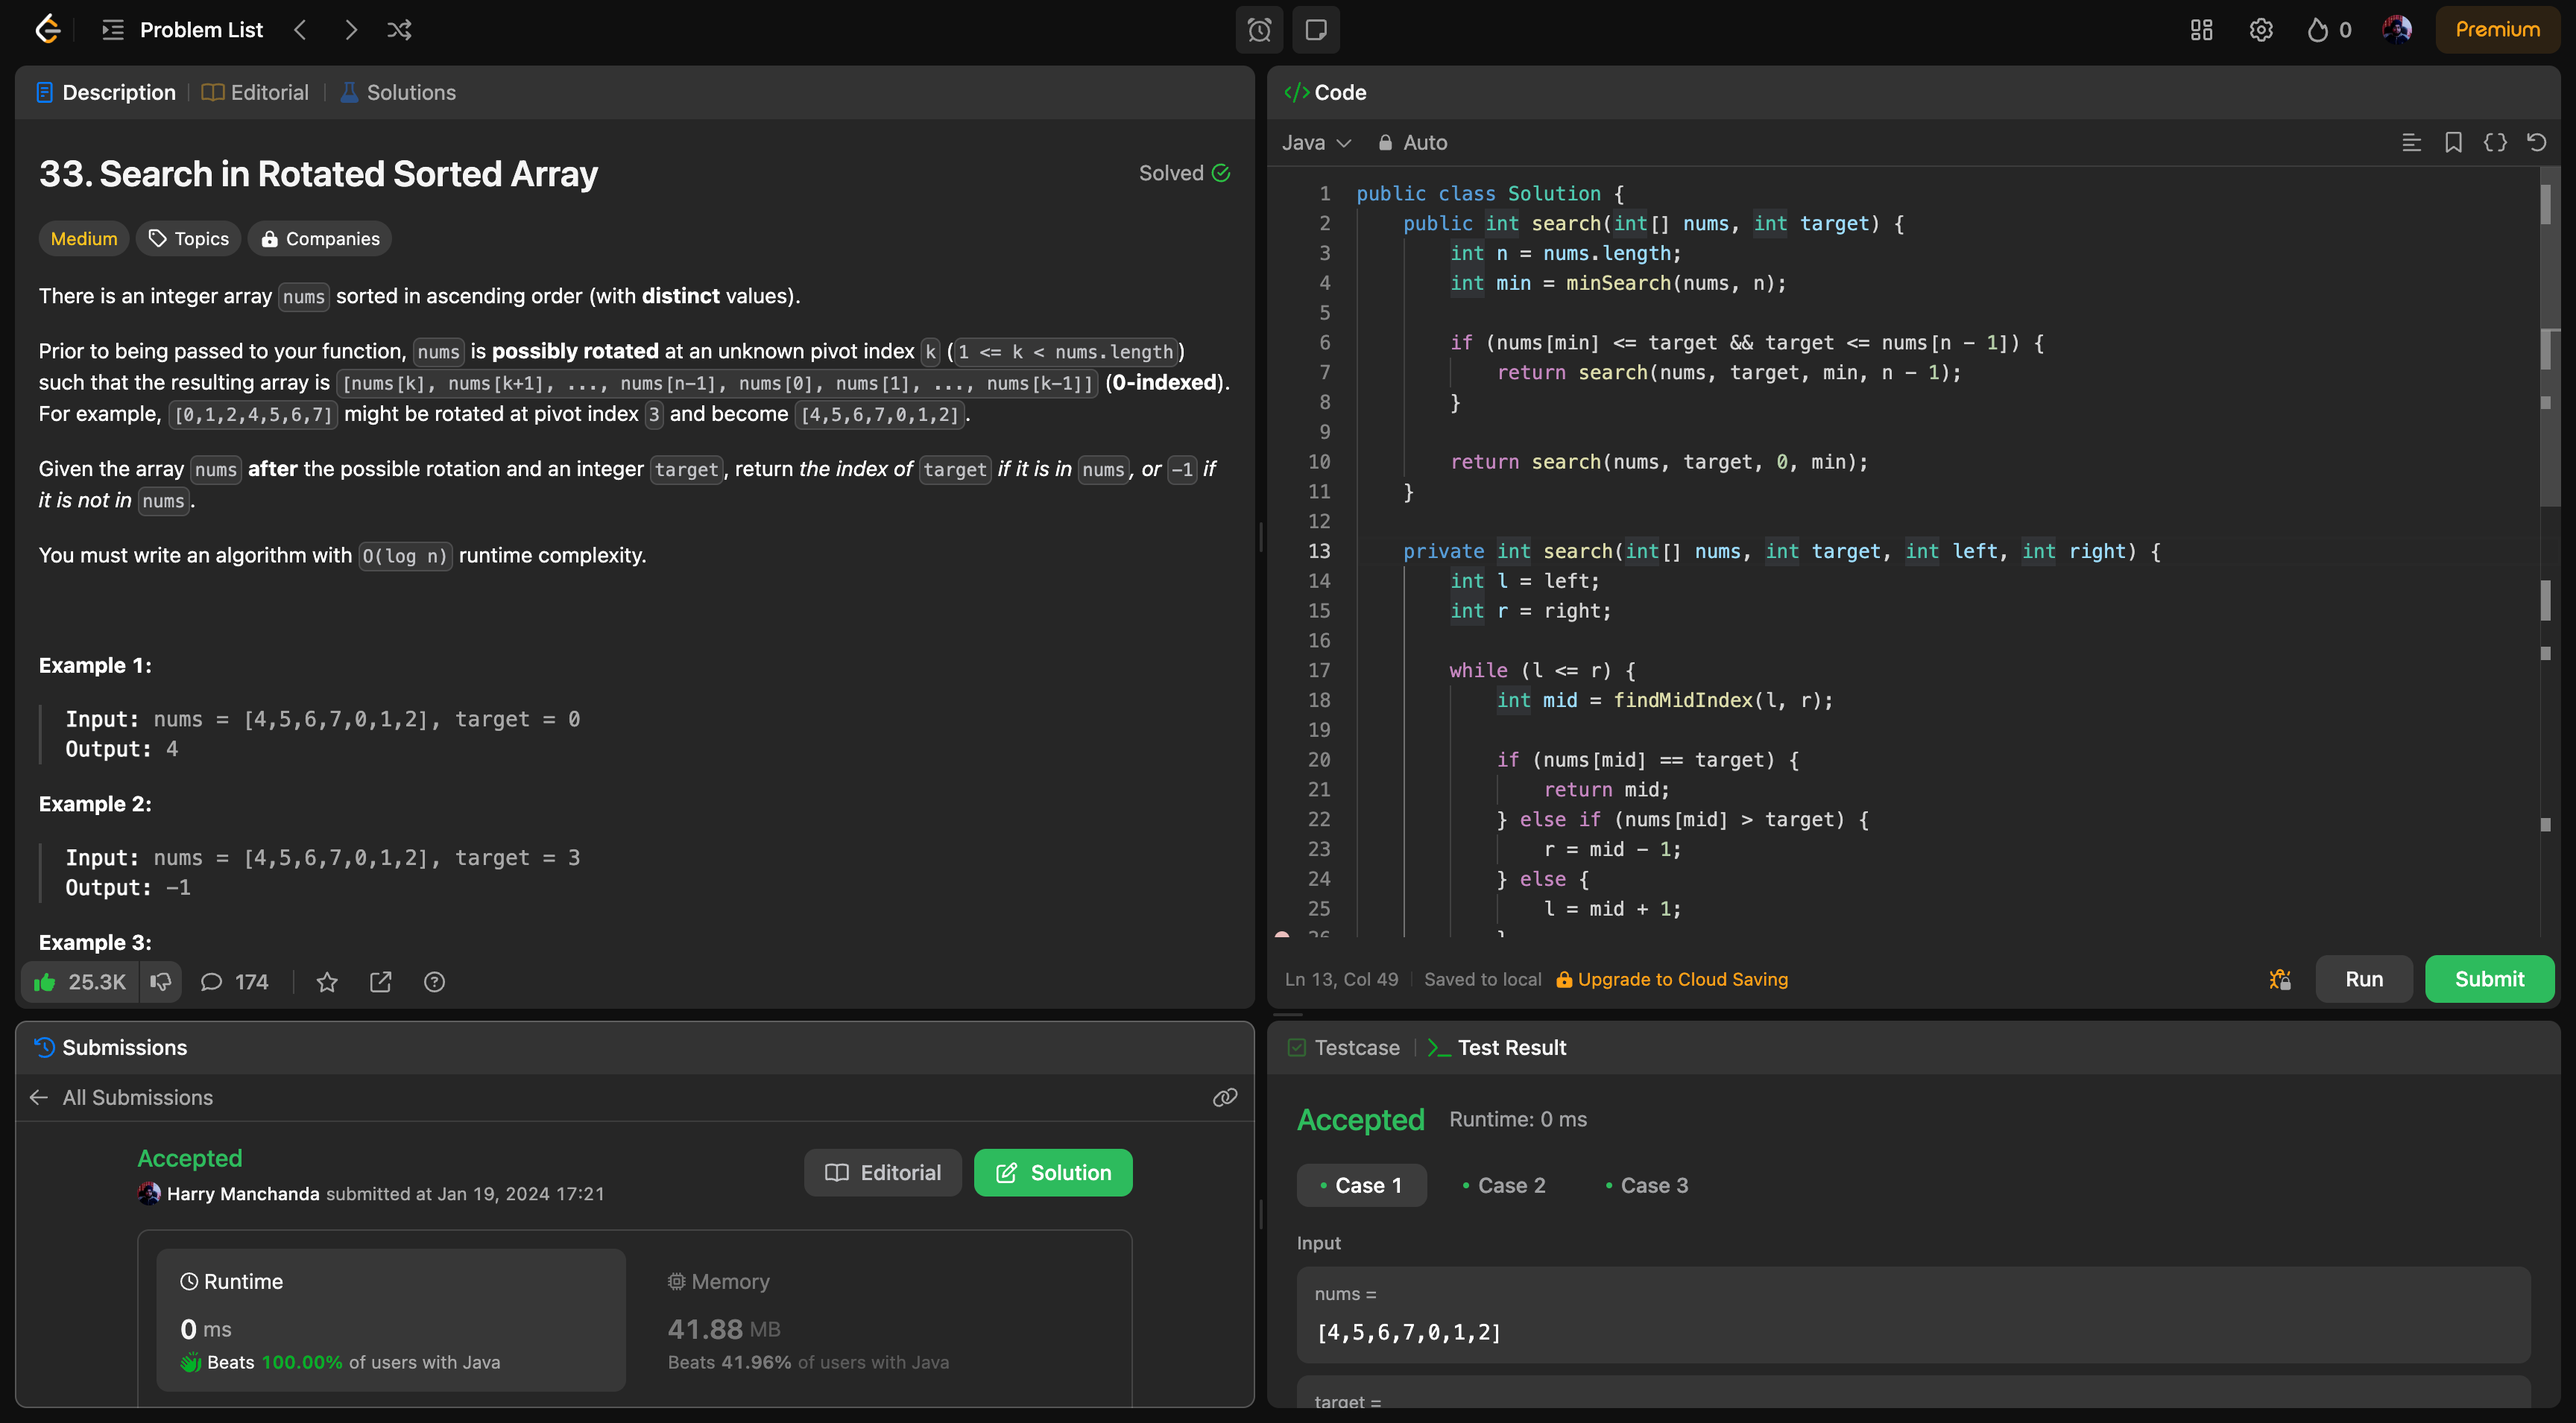
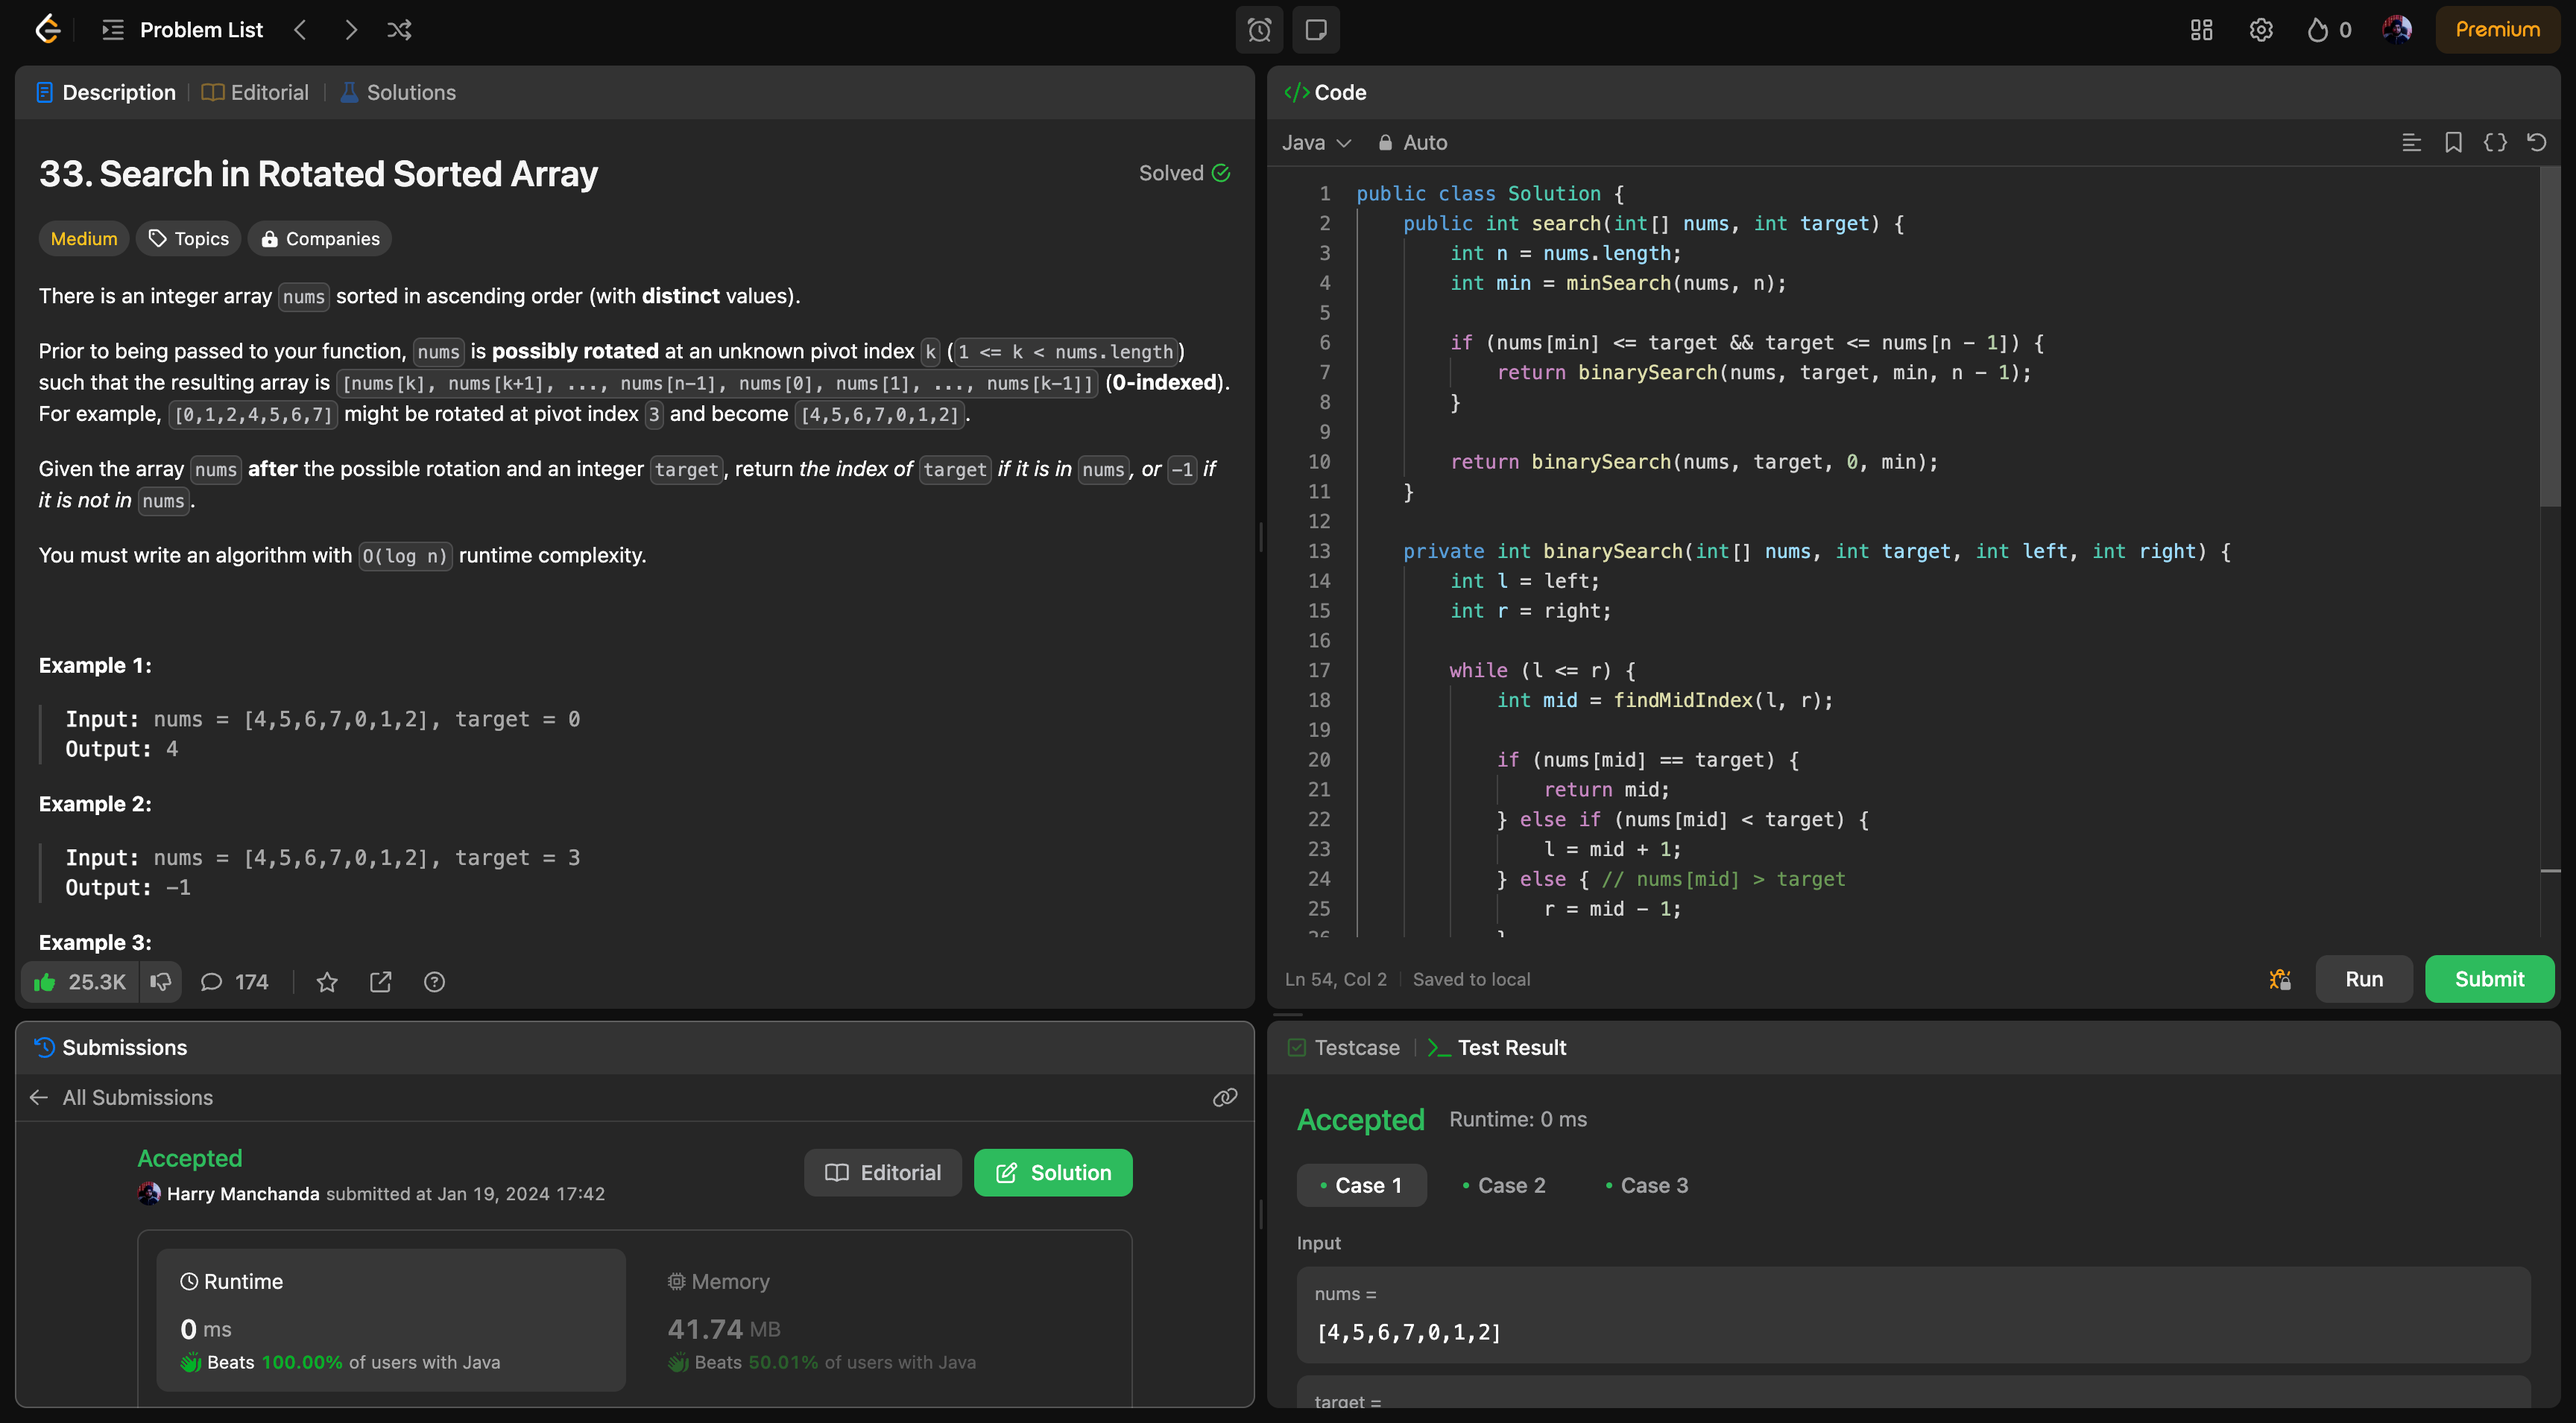
Updates to solved problem: Search in rotated array

diff --git a/057-search-rotated-search-array/001-solution/Solution.java b/057-search-rotated-search-array/001-solution/Solution.java
@@ -13,13 +13,13 @@ public class Solution {
         int min = minSearch(nums, n);
 
         if (nums[min] <= target && target <= nums[n - 1]) {
-            return search(nums, target, min, n - 1);
+            return binarySearch(nums, target, min, n - 1);
         }
 
-        return search(nums, target, 0, min);
+        return binarySearch(nums, target, 0, min);
     }
 
-    private int search(int[] nums, int target, int left, int right) {
+    private int binarySearch(int[] nums, int target, int left, int right) {
         int l = left;
         int r = right;
 
@@ -28,10 +28,10 @@ public class Solution {
 
             if (nums[mid] == target) {
                 return mid;
-            } else if (nums[mid] > target) {
-                r = mid - 1;
-            } else {
+            } else if (nums[mid] < target) {
                 l = mid + 1;
+            } else { // nums[mid] > target
+                r = mid - 1;
             }
         }
 
